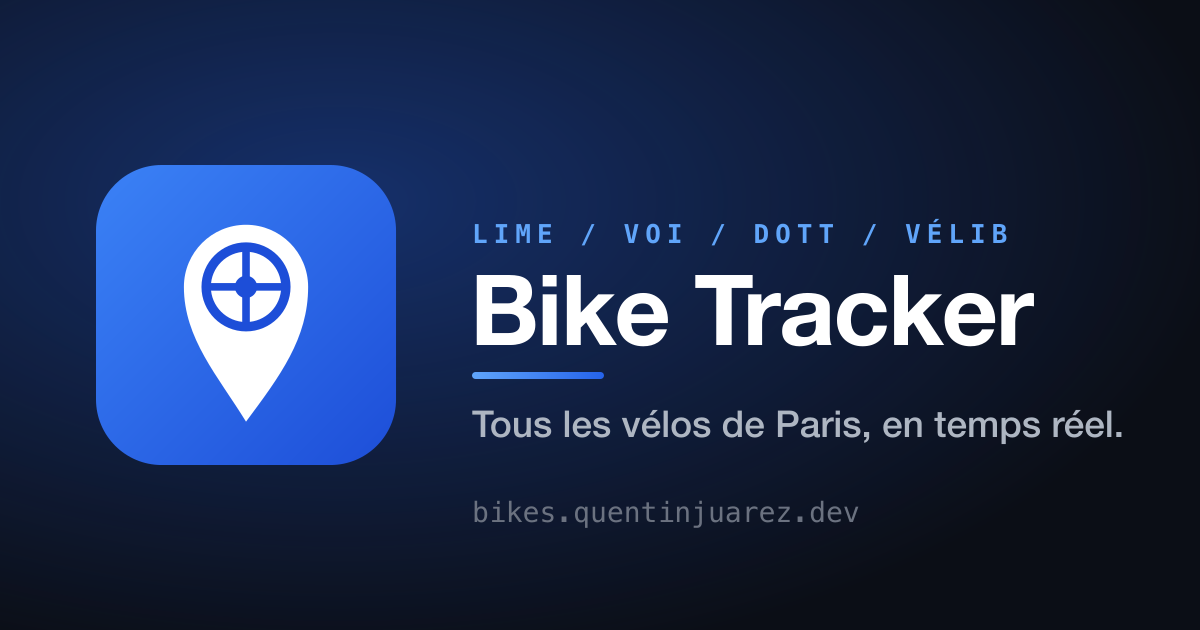
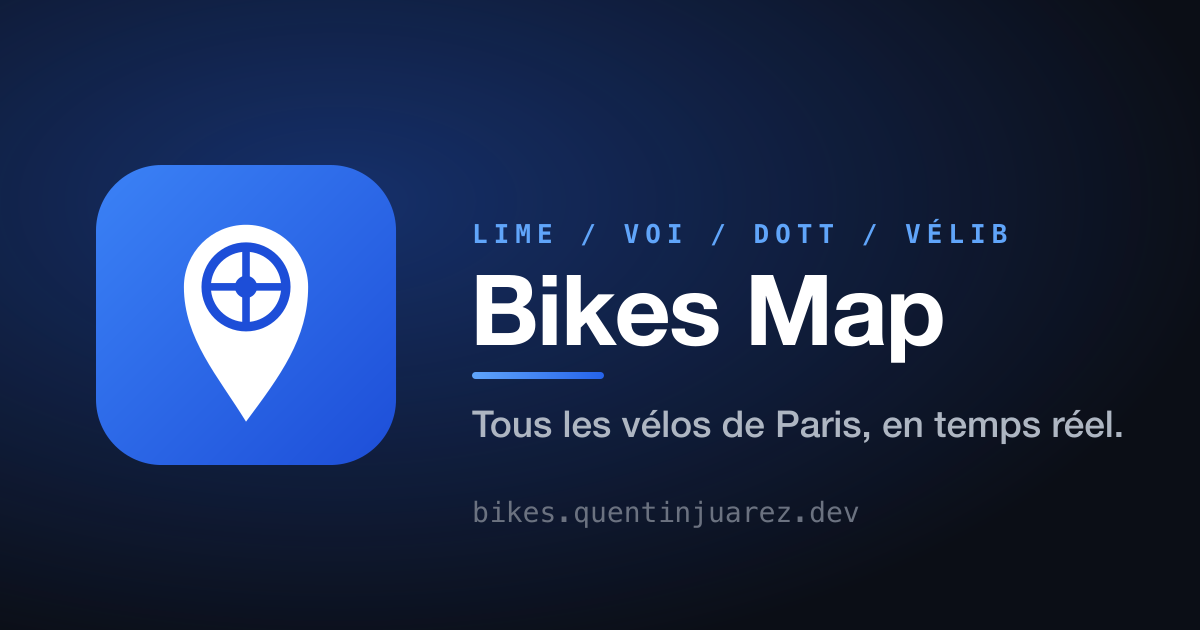
chore: rename app to Bikes Map
Rename the display name from Bike Tracker to Bikes Map across the UI, meta tags, manifest, legal and privacy text, and the generated OG image and favicon. Keep the bike-tracker localStorage keys and Pinia store ids so existing users keep their saved position, filters, and theme.

Changed region(s): [[0.555, 0.4222, 0.8633, 0.573]]

diff --git a/app/locales/en.ts b/app/locales/en.ts
@@ -20,7 +20,7 @@ export default {
     androidHint: 'Tap \u22ee then "Add to Home Screen"',
   },
   onboardingModal: {
-    title: 'Welcome to Bike Tracker',
+    title: 'Welcome to Bikes Map',
     subtitle: 'All Paris bike operators on one live map.',
     tip1: 'The map shows all available Lime, Voi, Dott and Vélib vehicles updated in real time.',
     tip2: 'Tap the \u201cLocate me\u201d button to centre the map on your current position and get distances.',
@@ -30,7 +30,7 @@ export default {
     close: 'Close',
   },
   onboarding: {
-    title: 'Bike Tracker',
+    title: 'Bikes Map',
     subtitle: 'Every Paris bike operator on one map: Lime, Voi, Dott and Vélib in real time.',
     useGps: 'Use my GPS location',
     or: 'or enter manually',
@@ -73,7 +73,7 @@ export default {
     s3: {
       title: '3. Purpose of the Service',
       content:
-        'Bike Tracker is a free, non-commercial web application that provides real-time visibility of available micro-mobility vehicles (bikes, electric scooters) and docking stations, sourced from public GBFS data feeds.',
+        'Bikes Map is a free, non-commercial web application that provides real-time visibility of available micro-mobility vehicles (bikes, electric scooters) and docking stations, sourced from public GBFS data feeds.',
     },
     s4: {
       title: '4. Service Provided \u201cAs Is\u201d',
@@ -90,12 +90,12 @@ export default {
         'Vehicle and station availability data (number of bikes, scooters, docks, battery levels, etc.) is retrieved in real time from {thirdParty} via public GBFS (General Bikeshare Feed Specification) feeds provided by operators such as Lime, Voi, Dott and V\u00e9lib M\u00e9tropole.',
       thirdParty: 'third-party sources',
       content:
-        'This data is the exclusive property of its respective providers. The publisher of Bike Tracker has no control over its accuracy, completeness, freshness, or availability. Accordingly, the publisher shall not be liable for any direct or indirect loss arising from the use of, or inability to use, this data, or any decision made based on it (e.g. a wasted journey).',
+        'This data is the exclusive property of its respective providers. The publisher of Bikes Map has no control over its accuracy, completeness, freshness, or availability. Accordingly, the publisher shall not be liable for any direct or indirect loss arising from the use of, or inability to use, this data, or any decision made based on it (e.g. a wasted journey).',
     },
     s6: {
       title: '6. Non-Commercial and Informational Use',
       intro:
-        'Bike Tracker is intended for {strictlyPersonal}. Any commercial exploitation, redistribution, or integration into a commercial product or service is prohibited without prior written consent from the publisher.',
+        'Bikes Map is intended for {strictlyPersonal}. Any commercial exploitation, redistribution, or integration into a commercial product or service is prohibited without prior written consent from the publisher.',
       strictlyPersonal: 'strictly personal, non-commercial and informational use only',
       content:
         'The names and trademarks of operators mentioned (Lime, Voi, Dott, V\u00e9lib, etc.) are the exclusive property of their respective owners. Their mention in the application is purely informational and does not constitute a partnership, affiliation, or endorsement by those operators.',
@@ -117,7 +117,7 @@ export default {
     s1: {
       title: '1. General Principle',
       content:
-        'Bike Tracker is designed with user privacy in mind. The application does not collect any personally identifiable data. No user account is required to use the service.',
+        'Bikes Map is designed with user privacy in mind. The application does not collect any personally identifiable data. No user account is required to use the service.',
     },
     s2: {
       title: '2. Geolocation',
@@ -139,7 +139,7 @@ export default {
     s4: {
       title: '4. Cookies and Trackers',
       intro:
-        'The application {noCookies} (Google Analytics, Matomo, Facebook Pixel, etc.). No audience measurement tool is integrated into Bike Tracker.',
+        'The application {noCookies} (Google Analytics, Matomo, Facebook Pixel, etc.). No audience measurement tool is integrated into Bikes Map.',
       noCookies: 'does not use any advertising or tracking cookies',
     },
     s5: {
@@ -149,7 +149,7 @@ export default {
         'your browser never contacts operator APIs (Lime, Voi, Dott, V\u00e9lib) directly. Requests are routed through a dedicated server-side proxy. This proxy does not transmit any personal data to operators.',
       mapLabel: 'Map tiles:',
       mapContent:
-        'the map uses tiles provided by third-party services (OpenStreetMap / CARTO, Esri). When loading the map, your browser connects to their CDN servers. These services may log technical metadata (IP address, timestamp) in accordance with their own privacy policies. Bike Tracker has no control over these processes.',
+        'the map uses tiles provided by third-party services (OpenStreetMap / CARTO, Esri). When loading the map, your browser connects to their CDN servers. These services may log technical metadata (IP address, timestamp) in accordance with their own privacy policies. Bikes Map has no control over these processes.',
     },
     s6: {
       title: '6. Security',

diff --git a/app/locales/fr.ts b/app/locales/fr.ts
@@ -21,7 +21,7 @@ export default {
       'Sur iOS, utilisez le bouton de partage de votre navigateur puis « Ajouter à l’écran d’accueil »',
   },
   onboardingModal: {
-    title: 'Bienvenue sur Bike Tracker',
+    title: 'Bienvenue sur Bikes Map',
     subtitle: 'Tous les opérateurs parisiens sur une seule carte en temps réel.',
     tip1: 'La carte affiche tous les véhicules Lime, Voi, Dott et Vélib disponibles, mis à jour en temps réel.',
     tip2: 'Appuyez sur \u00ab\u00a0Me localiser\u00a0\u00bb pour centrer la carte sur votre position et afficher les distances.',
@@ -31,7 +31,7 @@ export default {
     close: 'Fermer',
   },
   onboarding: {
-    title: 'Bike Tracker',
+    title: 'Bikes Map',
     subtitle:
       'Tous les opérateurs parisiens sur une seule carte : Lime, Voi, Dott et Vélib en temps réel.',
     useGps: 'Utiliser ma position GPS',
@@ -75,7 +75,7 @@ export default {
     s3: {
       title: '3. Objet et nature du service',
       content:
-        'Bike Tracker est une application web gratuite et non commerciale permettant de visualiser, en temps réel, la disponibilité de véhicules de mobilité douce (vélos, trottinettes électriques) et de stations de vélos en libre-service, à partir de flux de données publics au format GBFS.',
+        'Bikes Map est une application web gratuite et non commerciale permettant de visualiser, en temps réel, la disponibilité de véhicules de mobilité douce (vélos, trottinettes électriques) et de stations de vélos en libre-service, à partir de flux de données publics au format GBFS.',
     },
     s4: {
       title: "4. Service fourni \u00ab en l'état \u00bb (As Is)",
@@ -93,12 +93,12 @@ export default {
         'Les données de disponibilité des véhicules et des stations (nombre de vélos, de trottinettes, de places libres, niveaux de batterie\u2026) sont récupérées en temps réel auprès de {thirdParty} via des flux GBFS (General Bikeshare Feed Specification) publics, notamment ceux mis à disposition par les opérateurs Lime, Voi, Dott et Vélib Métropole.',
       thirdParty: 'sources tierces',
       content:
-        "Ces données sont la propriété exclusive de leurs émetteurs respectifs. L'éditeur de Bike Tracker n'exerce aucun contrôle sur leur exactitude, leur exhaustivité, leur fraîcheur ni leur disponibilité. En conséquence, l'éditeur ne saurait être tenu responsable de tout préjudice, direct ou indirect, résultant de l'utilisation ou de l'impossibilité d'utiliser ces données, ou de toute décision prise sur leur fondement (ex. : trajet inutile).",
+        "Ces données sont la propriété exclusive de leurs émetteurs respectifs. L'éditeur de Bikes Map n'exerce aucun contrôle sur leur exactitude, leur exhaustivité, leur fraîcheur ni leur disponibilité. En conséquence, l'éditeur ne saurait être tenu responsable de tout préjudice, direct ou indirect, résultant de l'utilisation ou de l'impossibilité d'utiliser ces données, ou de toute décision prise sur leur fondement (ex. : trajet inutile).",
     },
     s6: {
       title: '6. Utilisation non commerciale et informative',
       intro:
-        "Bike Tracker est destiné à un usage {strictlyPersonal}. Toute exploitation commerciale, redistribution ou intégration dans un produit ou service commercial est interdite sans accord écrit préalable de l'éditeur.",
+        "Bikes Map est destiné à un usage {strictlyPersonal}. Toute exploitation commerciale, redistribution ou intégration dans un produit ou service commercial est interdite sans accord écrit préalable de l'éditeur.",
       strictlyPersonal: 'strictement personnel, non commercial et informatif',
       content:
         "Les noms et marques des opérateurs mentionnés (Lime, Voi, Dott, Vélib, etc.) sont la propriété exclusive de leurs détenteurs respectifs. Leur mention dans l'application est purement informative et ne constitue en aucun cas un partenariat, une affiliation ou une approbation de la part desdits opérateurs.",
@@ -120,7 +120,7 @@ export default {
     s1: {
       title: '1. Principe général',
       content:
-        "Bike Tracker est conçu dans le respect de la vie privée de ses utilisateurs. L'application ne collecte aucune donnée personnelle identifiable. Aucun compte utilisateur n'est requis pour utiliser le service.",
+        "Bikes Map est conçu dans le respect de la vie privée de ses utilisateurs. L'application ne collecte aucune donnée personnelle identifiable. Aucun compte utilisateur n'est requis pour utiliser le service.",
     },
     s2: {
       title: '2. Géolocalisation',
@@ -142,7 +142,7 @@ export default {
     s4: {
       title: '4. Cookies et traceurs',
       intro:
-        "L'application {noCookies} (Google Analytics, Matomo, Facebook Pixel, etc.). Aucun outil de mesure d'audience n'est intégré dans Bike Tracker.",
+        "L'application {noCookies} (Google Analytics, Matomo, Facebook Pixel, etc.). Aucun outil de mesure d'audience n'est intégré dans Bikes Map.",
       noCookies: "n'utilise aucun cookie publicitaire ou de suivi",
     },
     s5: {
@@ -152,7 +152,7 @@ export default {
         "votre navigateur ne contacte jamais directement les API des opérateurs (Lime, Voi, Dott, Vélib). Les requêtes transitent par un serveur proxy dédié à l'application. Ce serveur ne transmet aucune donnée personnelle aux opérateurs.",
       mapLabel: 'Tuiles cartographiques :',
       mapContent:
-        "la carte utilise des tuiles fournies par des services tiers (OpenStreetMap / CARTO, Esri). Lors du chargement de la carte, votre navigateur se connecte à leurs serveurs CDN. Ces services peuvent enregistrer des métadonnées techniques (adresse IP, horodatage) conformément à leurs propres politiques de confidentialité. Bike Tracker n'a aucun contrôle sur ces traitements.",
+        "la carte utilise des tuiles fournies par des services tiers (OpenStreetMap / CARTO, Esri). Lors du chargement de la carte, votre navigateur se connecte à leurs serveurs CDN. Ces services peuvent enregistrer des métadonnées techniques (adresse IP, horodatage) conformément à leurs propres politiques de confidentialité. Bikes Map n'a aucun contrôle sur ces traitements.",
     },
     s6: {
       title: '6. Sécurité',

diff --git a/nuxt.config.ts b/nuxt.config.ts
@@ -1,10 +1,10 @@
 import tailwindcss from '@tailwindcss/vite';
 
 const SITE_URL = 'https://bikes.quentinjuarez.dev';
-const TITLE = 'Bike Tracker, tous les vélos de Paris';
+const TITLE = 'Bikes Map, tous les vélos de Paris';
 const DESCRIPTION =
   'Lime, Voi, Dott et Vélib réunis sur une seule carte en temps réel. Trouvez le vélo le plus proche en quelques secondes, où que vous soyez à Paris.';
-const OG_TITLE = 'Bike Tracker, tous les vélos de Paris sur une seule carte';
+const OG_TITLE = 'Bikes Map, tous les vélos de Paris sur une seule carte';
 const OG_DESCRIPTION =
   'Lime, Voi, Dott et Vélib réunis en temps réel. Trouvez le vélo le plus proche en quelques secondes, où que vous soyez à Paris.';
 
@@ -14,8 +14,8 @@ const jsonLd = {
     {
       '@type': ['WebApplication', 'MobileApplication'],
       '@id': `${SITE_URL}/#app`,
-      name: 'Bike Tracker',
-      alternateName: 'Bike Tracker Paris',
+      name: 'Bikes Map',
+      alternateName: 'Bikes Map Paris',
       url: SITE_URL,
       description: DESCRIPTION,
       applicationCategory: 'UtilitiesApplication',
@@ -112,7 +112,7 @@ export default defineNuxtConfig({
         { name: 'ICBM', content: '48.8566, 2.3522' },
         // Open Graph
         { property: 'og:type', content: 'website' },
-        { property: 'og:site_name', content: 'Bike Tracker' },
+        { property: 'og:site_name', content: 'Bikes Map' },
         { property: 'og:title', content: OG_TITLE },
         { property: 'og:description', content: OG_DESCRIPTION },
         { property: 'og:url', content: SITE_URL },
@@ -135,7 +135,7 @@ export default defineNuxtConfig({
           name: 'apple-mobile-web-app-status-bar-style',
           content: 'black-translucent',
         },
-        { name: 'apple-mobile-web-app-title', content: 'Bike Tracker' },
+        { name: 'apple-mobile-web-app-title', content: 'Bikes Map' },
       ],
       link: [
         { rel: 'canonical', href: SITE_URL },

diff --git a/app/pages/legal.vue b/app/pages/legal.vue
@@ -141,7 +141,7 @@ import LanguageSwitcher from '../components/LanguageSwitcher.vue';
 
 const { t, locale } = useI18n();
 
-useHead({ title: 'Mentions légales et CGU | Bike Tracker' });
+useHead({ title: 'Mentions légales et CGU | Bikes Map' });
 
 const ownerName = 'Quentin Juarez';
 const ownerEmail = '[email redacted]';

diff --git a/app/pages/privacy.vue b/app/pages/privacy.vue
@@ -128,7 +128,7 @@ import LanguageSwitcher from '../components/LanguageSwitcher.vue';
 
 const { t, locale } = useI18n();
 
-useHead({ title: 'Politique de confidentialité | Bike Tracker' });
+useHead({ title: 'Politique de confidentialité | Bikes Map' });
 
 const ownerEmail = '[email redacted]';
 

diff --git a/README.md b/README.md
@@ -1,4 +1,4 @@
-# Bike Tracker
+# Bikes Map
 
 Carte temps réel des vélos et trottinettes disponibles près de vous.
 Supporte **Lime**, **Voi**, **Dott** et les stations **Vélib Métropole** (Paris).